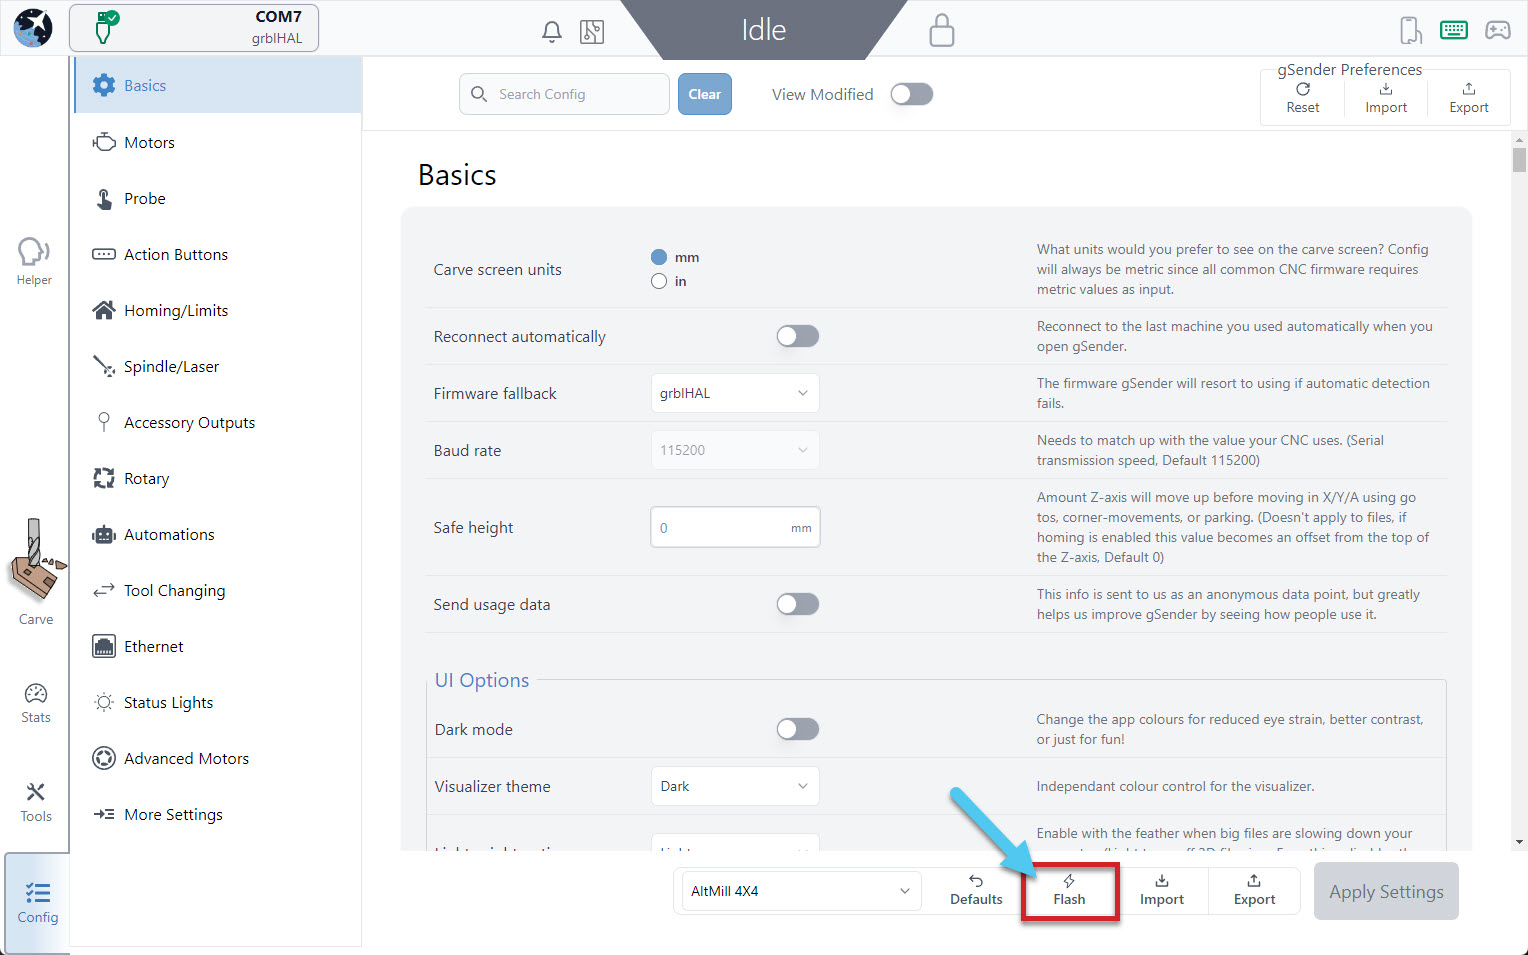
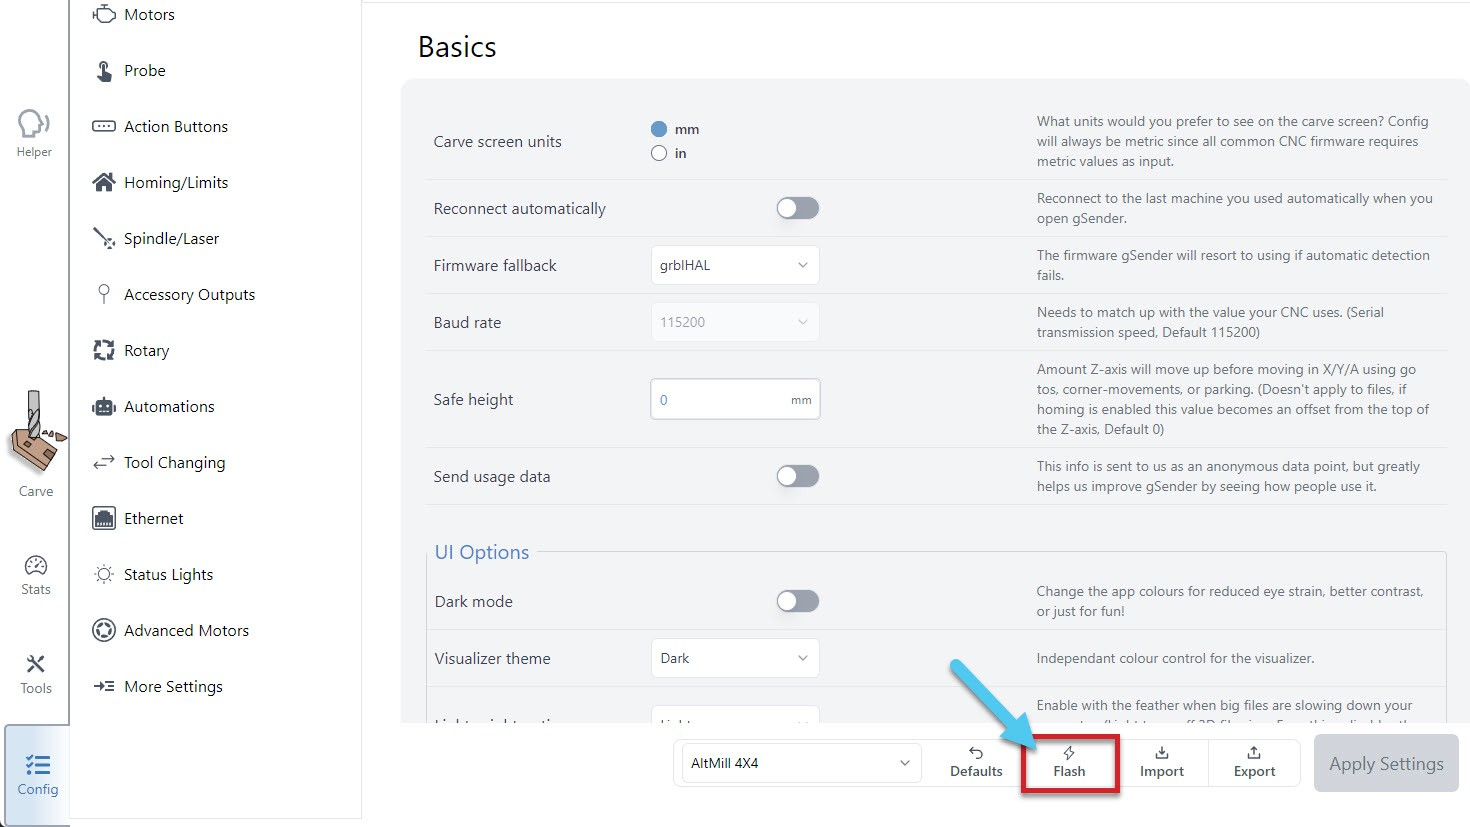
Merge pull request #158 from Sienci-Labs/firmware-flash-additional-steps
added more pictures, updated pics, minimized text

Pull request: added more pictures, updated pics, minimized text
- updated pictures for consistency with COM port and for latest firmware file
- gif to identify where to see firmware version
- spindle cable picture to show where to unplug
- STM cube picture to show that you need to install it

diff --git a/superlongboard/slb-firmware-flashing.md b/superlongboard/slb-firmware-flashing.md
@@ -16,9 +16,9 @@ featured_image: _images/_superlongboard/_firmware/slb_fi_p1_Connected.jpg
 ---
 ## Check Firmware Version
 
-Your board will likely ship with the latest firmware already installed, but we occasionally make updates to add new features or address any discovered issues. You may also choose to re-flash the firmware onto your board if you've attempted to customize it or for troubleshooting purposes.
+Your board will likely ship with the latest firmware already installed, but we occasionally make updates to add new features or address any discovered issues. You may also choose to re-flash the firmware onto your board if you've attempted to customize it, or for troubleshooting purposes.
 
-Before getting started, **check what your current version is** by going to the 'Machine Information' icon, and see what version you are currently running. If the version number in the Latest Firmware is **higher** than what's on your board, we recommend upgrading.
+Before getting started, **check what your current version is** by going to the 'Machine Information' icon, and see what version you are currently running. If the version number in the [Latest Firmware](#latest-firmware) section is **higher** than what's on your board, we recommend upgrading.
 
 ![](/_images/_superlongboard/_firmware/slb_fi_p01_firmwareversion.jpg)
 
@@ -31,14 +31,13 @@ SLB: <a href="https://drive.google.com/file/d/1YTGGgDs-a5Ajsb47IDdven7NOovp7flb/
 - Updated defaults to accommodate some machine setups that couldn't handle the max speeds and accelerations of the SLB
 - Changed min spindle speed, spindle on delay, and default enabled spindles to match typical spindle setups using the SLB
 
-SLB EXT (AltMill): <a href="https://drive.google.com/file/d/1DyymJLXV8rH4l39VM9VgCTyUuCH7AghP/view?usp=drive_link" target="_blank" rel="noopener">Main_grblHAL (20260525)</a>
+SLB-EXT: <a href="https://drive.google.com/file/d/1DyymJLXV8rH4l39VM9VgCTyUuCH7AghP/view?usp=drive_link" target="_blank" rel="noopener">Main_grblHAL (20260525)</a>
 
 - Version **20260525**
 - Newest, main version of grblHAL
 - Requires gSender 1.6.2 or newer
 - Huanyang or generic 'MODVFD' spindle setups included
 - Read more about the use of the 'MODVFD' spindle profile for generic VFDs <a href="https://sienci.zendesk.com/hc/en-us/articles/41538568827668-MODVFD-Setup">here.</a>
-- Unplug the VFD for firmware flashing
   
 [su_spoiler title="<b>Past Versions:</b>" open="no" style="fancy" icon="chevron" anchor_in_url="yes"]
 
@@ -57,19 +56,24 @@ SLB EXT (AltMill): <a href="https://drive.google.com/file/d/1DyymJLXV8rH4l39VM9V
 
 To successfully flash new firmware onto your SLB, you'll need:
 
-1. The **firmware file** (.hex file)
-1. A computer that can run **gSender**, connected to the SLB/SLB-EXT controller over **USB**
+1. The [firmware file](#latest-firmware) (.hex file)
+1. A computer that can run [gSender 1.6.2 or above](https://sienci.com/gsender/), connected to the SLB/SLB-EXT controller over **USB**
 
    - The controller cannot flash through Ethernet
-1. The appropriate power supply to **power your SLB/SLB-EXT** during flashing
 1. For Windows, STM32Cube, **downloaded and installed** to your computer
 
     - <a href="https://drive.google.com/file/d/1XzT21kwJFHcPzCDYhIdux49At6-TmrVA/view?usp=drive_link" target="_blank" rel="noopener">STM32Cube File</a>
+
+    ![](/_images/_superlongboard/_firmware/slb_fi_stmcube.jpg){.aligncenter .size-medium}
+
 1. To note down any **firmware settings** that you have changed from the default firmware settings. This is especially important if you have a third-party CNC.
+1. To keep your SLB/SLB-EXT **powered ON** during flashing.
 1. To turn OFF any accessories that receive a control signal from the SLB, just in case the flashing process inadvertently sends control signals to those accessories.
 1. To **unplug your VFD** cable at the spindle side, not the VFD side.
 
-        The video shows the complete firmware update process, for an SLB-EXT on a Windows computer, using gSender to flash. 
+![](/_images/_superlongboard/_firmware/slb_fi_spincable.jpg){.aligncenter .size-medium}
+
+    The video shows the complete firmware update process, for an SLB-EXT on a Windows computer, using gSender to flash.
 
 https://www.youtube.com/watch?v=YmmHqQR9WTY
 
@@ -77,31 +81,43 @@ https://www.youtube.com/watch?v=YmmHqQR9WTY
 
 [tabby title="Current" open="yes"]
 
-1. Be connected to your SLB over USB with the power on, ensure the firmware selected is '**grblHAL**' not '**grbl**'
+1. Connect to gSender over USB with the power on, and ensure the firmware is '**grblHAL**' not '**grbl**'
 
-   ![](/_images/_superlongboard/_firmware/slb_fi_p1_Connected-newu.jpg){.aligncenter .size-medium}
+   ![](/_images/_superlongboard/_firmware/slb_fi_connected-newu.jpg){.aligncenter .size-medium}
+
 1. Go to the **Config tab** and click the **Flash** button
+  ![](/_images/_superlongboard/_firmware/slb_fi_p2_FlashgrblHAL-newu.jpg){.aligncenter .size-medium}
 
-   ![](/_images/_superlongboard/_firmware/slb_fi_p2_FlashgrblHAL-newu.jpg){.aligncenter .size-medium}
-1. Ensure the COM port is correct (matches the board you're connected to), and that you have selected grblHAL as your controller type
-1. Click 'Choose File' to select the ".hex" firmware file you plan to update to, in the picture below it's the 5.0.11 firmware for the AltMill
+1. Select the **same COM port** as before, and select **grblHAL** as your controller type.
+
+1. Click 'Choose File' to select the ".hex" firmware file you plan to update to.
+
+    ![](/_images/_superlongboard/_firmware/slb_fi_Choose-newu.jpg){.aligncenter .size-medium}
+
 1. Click 'Yes' to begin the flashing process. If it stops before 100% and you see an error for:
    - "LIBUSB_ERROR_NOT_SUPPORTED", you'll need to [update your Windows driver](#windows-driver-update)
    - "Unable to find valid device", you might have [installed your Windows drivers incorrectly](#bad-driver-install)
    - "LIBUSB_ERROR_ACCESS", your Ubuntu device might be having a [USB rights issue](#ubuntu-driver-update)
 
-   ![](/_images/_superlongboard/_firmware/slb_fi_p3_Choose-newu.jpg){.aligncenter .size-medium}
-1. Once you see the loading bar at 100%, flashing is complete. Exit out of the firmware window and switch off the board with the power switch at the back then turn it back on again.
+1. Once you see the loading bar at 100%, flashing is complete. Close the window and turn OFF and ON the SLB/SLB-EXT.
 
    ![](/_images/_superlongboard/_firmware/slb_fi_p4_Flashing-newu.jpg){.aligncenter .size-medium}
-1. Once it's back on, you should be able to re-connect to it in gSender. Go to the **Console tab** and send the command `$rst=$` to revert your machine back to the default firmware settings (you shouldn't get any errors when you send this command).
+
+1. Reconnect to gSender. Go to the **Console tab** and send the command `$rst=$` to revert your machine back to the default firmware settings (you shouldn't get any errors when you send this command).
 
    ![](/_images/_superlongboard/_firmware/slb_fi_p5_ConsoleRST-newu-2.jpg){.aligncenter .size-medium}
-1. Power the board off and then back on one more time after sending the command. Finally, if you had any specific settings from your previous setup that you want to check or reload, connect back to gSender and change those firmware values back. Remember to hit "Apply New Settings" when you're doing this and ensure that the settings are being re-added correctly, if they don't seem to be sticking then make sure that your SLB is in an 'Idle' state, cleared of all Alarms, and try turning the SLB off and back on again.
 
-Congrats are in order, well done! If you go back to the 'Console' you should now see that sending the `$i` command will give you new text that matches up with the update you've made.
+1. Power OFF and ON the controller.
 
-![](/_images/_superlongboard/_firmware/slb_fi_p5a_Consolei-newu.gif){.aligncenter .size-full}
+1. Finally, if you had any specific settings from your previous setup that you want to reapply, connect back to gSender, go to Config and change those firmware values back.
+
+        When finished, remember to press Apply New Settings, then turn OFF/ON the controller. If the settings aren't applying, make sure the controller is in an 'Idle' state, cleared of all Alarms, then try turning the controller OFF/ON again.
+
+1. Go to the 'Console', type in `$i` and press Run. Scroll up and check that the version number matches the firmware version you uploaded.
+
+![](/_images/_superlongboard/_firmware/slb_fi_console.gif){.aligncenter .size-full}
+
+Congrats are in order, well done on successfully flashing the firmware!
 
 [tabby title="Classic gSender"]
 
@@ -112,23 +128,31 @@ Congrats are in order, well done! If you go back to the 'Console' you should now
 
    ![](/_images/_superlongboard/_firmware/slb_fi_p2_FlashgrblHAL.jpg){.aligncenter .size-medium}
 1. Ensure the COM port is correct (matches the board you're connected to)
+
 1. Click 'Choose File' to select the ".hex" firmware file you plan to update to, in the picture below it's the 5.0.7 firmware
+
 1. Click 'Yes' to begin the flashing process. If it stops before 100% and you see an error for:
    - "LIBUSB_ERROR_NOT_SUPPORTED", you'll need to [update your Windows driver](#windows-driver-update)
    - "Unable to find valid device", you might have [installed your Windows drivers incorrectly](#bad-driver-install)
    - "LIBUSB_ERROR_ACCESS", your Ubuntu device might be having a [USB rights issue](#ubuntu-driver-update)
 
    ![](/_images/_superlongboard/_firmware/slb_fi_p3_Choose.jpg){.aligncenter .size-medium}
+
 1. Once you see the loading bar at 100%, flashing is complete. Exit out of the firmware window and switch off the board with the power switch at the back then turn it back on again.
 
    ![](/_images/_superlongboard/_firmware/slb_fi_p4_Flashing.jpg){.aligncenter .size-medium}
+
 1. Once it's back on, you should be able to re-connect to it in gSender. Go to the 'Console' tab and send the command `$rst=$` to revert your machine back to the default firmware settings (you shouldn't get any errors when you send this command).
 
    ![](/_images/_superlongboard/_firmware/slb_fi_p5_ConsoleRST.jpg){.aligncenter .size-medium}
-1. Power the board off and then back on one more time after sending the command. Finally, if you had any specific settings from your previous setup that you want to check or reload, connect back to gSender and change those firmware values back. Remember to hit "Apply New Settings" when you're doing this and ensure that the settings are being re-added correctly, if they don't seem to be sticking then make sure that your SLB is in an 'Idle' state, cleared of all Alarms, and try turning the SLB off and back on again.
 
-Congrats are in order, well done! If you go back to the 'Console' you should now see that sending the `$i` command will give you new text that matches up with the update you've made.
+1. Finally, if you had any specific settings from your previous setup that you want to reapply, connect back to gSender, go to Config and change those firmware values back.
 
+        When finished, remember to press Apply New Settings, then turn OFF/ON the controller. If the settings aren't applying, make sure the controller is in an 'Idle' state, cleared of all Alarms, then try turning the controller OFF/ON again.
+
+1. Go to the 'Console' and type in `$i` command and press Run. Scroll up and check that the version number matches the firmware version you uploaded.
+
+Congrats are in order, well done on successfully flashing the firmware!
 [tabbyending]
 
 [su_spoiler title="STM Cube Flashing (Advanced)" open="yes" style="fancy" icon="chevron" anchor_in_url="yes"]